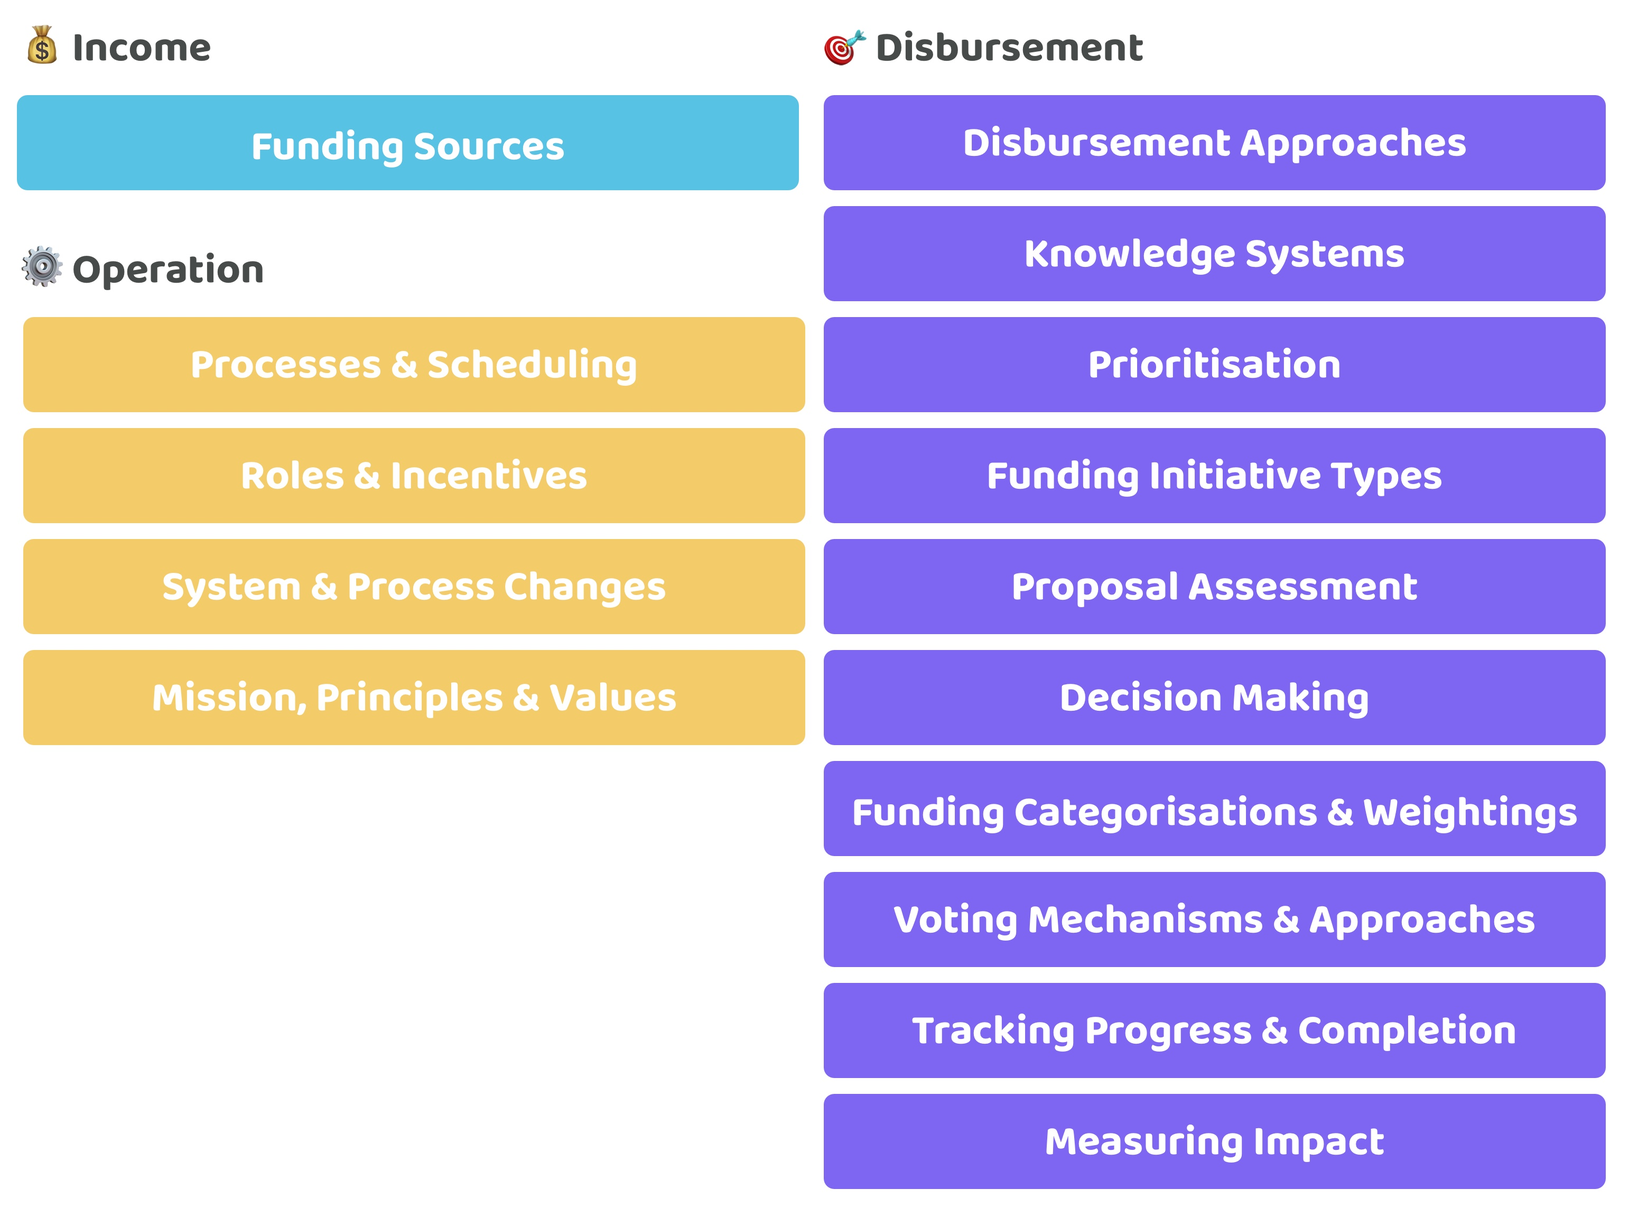
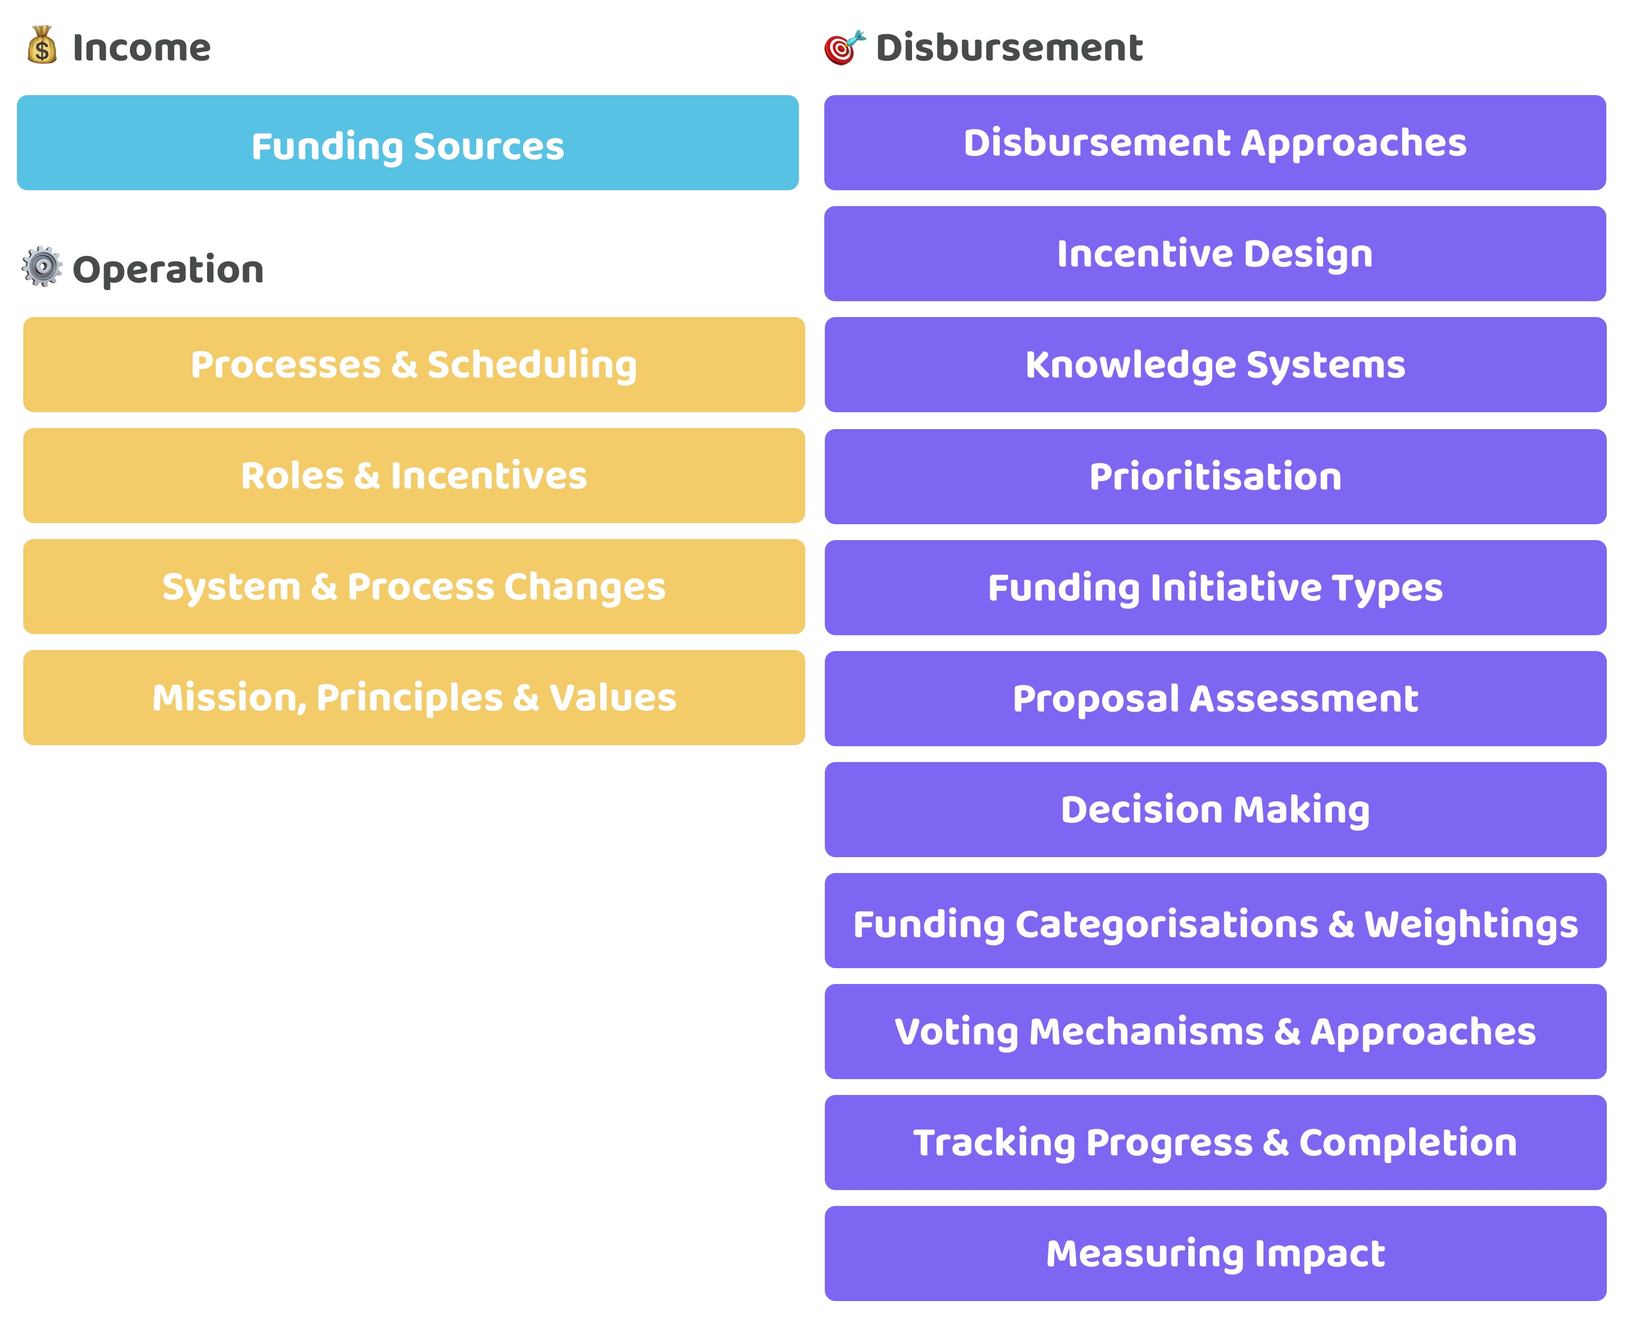
GITBOOK-99: change request with no subject merged in GitBook

Changed region(s): [[0.0, 0.0, 0.991, 0.9931]]

diff --git a/roadmap/current-roadmap-plan.md b/roadmap/current-roadmap-plan.md
@@ -1,0 +1,95 @@
+---
+description: >-
+  Our current roadmap with the planned contribution efforts for the coming
+  months
+---
+
+# ✍ Current roadmap plan
+
+<figure><img src="../.gitbook/assets/disbursement-approaches-incentive-design-roadmap.png" alt=""><figcaption></figcaption></figure>
+
+The Web 3 Association has already started looking at how different ecosystems could approach disbursement by identifying different disbursement approaches and incentive design mechanisms that could be adopted and what the different factors and potential trade offs are for these approaches.
+
+We’re looking to expand and iterate on this existing work and dive deeper into these topic areas to improve the available disbursement resources. These resources can then become more useful and insightful to existing Web 3 ecosystems across the industry and help with providing suggestions on what approaches could be worth further exploration and experimentation.
+
+Directly after finishing this analysis we will be introducing community based incentives to help bring together contributors from across the industry from different ecosystems to discuss and suggest more approaches that might be missing or to help with making any refinements and improvements to any of the existing resources.
+
+The outcomes from both these initiatives will help with identifying some of the most promising disbursement and incentive design approaches that ecosystems across the industry could experiment with or adopt in their own treasury disbursement processes.
+
+
+
+<figure><img src="../.gitbook/assets/knowledge-resources.png" alt=""><figcaption></figcaption></figure>
+
+A set of resources have already been created around different disbursement and incentive design approaches that teams building treasuries can consider. We’re looking to further explore and deep dive into this area to perfect these resources and expand on this work.
+
+
+
+**Existing resources**
+
+* [docs.treasuries.co](https://www.notion.so/Disbursement-Approaches-Incentive-Design-bd8adbd2e3af4bf5ad0056278f1a0575?pvs=21)
+* [disbursement.treasuries.co](https://www.notion.so/Disbursement-Approaches-Incentive-Design-bd8adbd2e3af4bf5ad0056278f1a0575?pvs=21)
+* [suggestions.treasuries.co](https://www.notion.so/Disbursement-Approaches-Incentive-Design-bd8adbd2e3af4bf5ad0056278f1a0575?pvs=21)
+
+
+
+**Areas of focus**
+
+* Disbursement approaches analysis - Further work can be done to improve the disbursement approaches analysis by going into more detail about the implications around how disbursement processes can be structured. Example areas that warrant deeper analysis include:
+  * Contributor flexibility - Initial participation complexity, contribution arrangement flexibility and ability to change future contribution efforts.
+  * Voting participation & decision complexity - Amount and complexity of information involved, voting comparison complexity, total time required to vote.
+* Types of ideas analysis - To better understand and explore how ideas are incentivised and executed through a disbursement process we can look at more example of types of ideas that can exist, both large and small, and look at how they could emerge such as through existing work efforts or feedback.
+* Idea based funding analysis - Idea focussed funding is currently the most prominent grants based funding approach used across many Web 3 ecosystems. By applying some of the previous analysis we can better explore the key opportunities and issues that exist around idea based funding against other options.
+* Open source development analysis - Open source development is a vital part of Web 3 ecosystems that are looking to make global and openly available protocols that can be adopted across many different use cases. Analysis can help to identify which disbursement approaches and incentive models could be most effective for funding open source development.
+* Incentive attachment analysis - Looking at the implications and differences that occur when the incentive is attached to different areas within web 3 ecosystems and how that could impact the behaviours and outcomes of the ecosystem. For instance how do the incentives impact an ecosystem when they are attached to the infrastructure, protocol or application layers? How do these differences align or misalign the incentives? What conflicts could occur?
+* Suggestions - New suggestions as well as refinements to existing ones will help with exploring what the most promising disbursement approaches could be as well as what incentive design appears to be the most promising for further exploration that could help with generating more impactful results when doing treasury disbursement.
+
+These pieces of analysis and any suggestions will be shared across different communities to receive feedback where community incentives will also be used to help with promoting suggested improvements to the resources created. Turning some of these resources into video content will also be another way we can help with articulating the different factors involved in the different disbursement approaches or incentive mechanisms.
+
+
+
+**Relevance & potential impact for the industry**
+
+The disbursement approaches and incentive mechanisms that any ecosystem adopts have a profound impact on the effectiveness, efficiency and scalability of their disbursement processes. Ecosystem teams working on the treasury systems and processes can cost hundreds of thousands or millions in development and maintenance costs to manage and improve these systems. By doing a deep dive into how these disbursement processes can be structured and incentivised we can help the industry in spotting opportunities to improve and experiment with how disbursement is handled to create increasingly impactful outcomes. Experimentation around the most promising approaches will be a vital part of identifying which disbursement approaches yield consistently impactful results over the long term.
+
+
+
+<figure><img src="../.gitbook/assets/community-incentives.png" alt=""><figcaption></figcaption></figure>
+
+After new and improved resources are created about different disbursement approaches and suitable incentive design mechanisms we will then look at introducing and promoting community incentives to help encourage people from across the industry to provide their expertise and feedback. These initiatives will help with identifying areas of improvement as well as completely new suggestions to the existing resources. This feedback will will help to improve the overall quality of the resources. As part of these initiatives we will spend time exploring what existing ecosystems are looking to accomplish with their own approaches and then help with providing our own thoughts and feedback as well as incentivising the community to share their own viewpoints to those ecosystems.
+
+
+
+**Areas of focus**
+
+* Exploration of new ideas and approaches - The resources should help with identifying the breadth of different approaches that could be adopted. An important part of achieving this will be incentivising community members to further explore and identify any areas that haven’t already been covered or thought about.
+* Analysis improvements - The existing resources will nearly always have potential areas of improvement that can make them more useful, concise or insightful. Community members will be compensated for providing feedback that leads to these improvements.
+* Research improvements - Research by community members could potentially reveal important trends or insights that are currently not covered and lacking in the existing resources. The community incentives can compensate the identification of research that is relevant and insightful to the wider industry that can then be added to the resources for reference.
+* Community feedback - Capturing the communities current sentiments and thoughts about any of the suggestions or analysis made in any of the resources will help with determining what disbursement approaches or incentive design mechanisms the community is currently most interested in exploring or using across different ecosystems. This could provide useful information for ecosystems to consider when making their own decisions on where to spend more effort in improving their own treasury systems and processes.
+* Ecosystems intentions & feedback - As the resources mature and become more well rounded it will be useful to capture the intentions and thoughts of the teams who are building the treasury systems and processes in each ecosystem. This information will make it clearer what hypothesis each ecosystem currently has in what disbursement approaches and incentive design mechanisms could be the most effective and then allow for the communities in those ecosystems to provide their thoughts and feedback and participate in those discussions.
+
+Each of these areas of focus will need to be handled with a best efforts approach due to the fact there will be no guarantee that community members come forward to contribute to any of these areas. We will need to react and respond to what actually happens rather than assume the outreach and incentives we initiate will generate the expected participation and desired result. Community incentives may be updated so they become more effective at generating the right outcomes however at no point will the community incentives be redirected to any core W3A contributors.
+
+
+
+**Relevance & potential impact for the industry**
+
+Each ecosystem in the industry is already spending resources on improving and maintaining their own treasury systems and processes to disburse treasury assets. By incentivising the wider industry to participate in discussions and contribution efforts towards improving treasury systems there is an opportunity to share the cost of identifying effective and scalable solutions that can help solve important treasury problems. Our intentions with the community incentives is to create a growing collaborative force across the industry that can more effectively and efficiently improve treasury systems. This could help the entire industry improve and grow at a faster rate than it is currently. The more the industry can collaborate the faster that shared learnings can be achieved which can help with speeding up the improvement and ongoing evolution of different treasury systems and processes.
+
+
+
+<figure><img src="../.gitbook/assets/future-contribution-efforts.png" alt=""><figcaption></figcaption></figure>
+
+After creating further resources, making improvements and bringing together community feedback our next task will be deciding where to allocate our contribution efforts moving forward. The feedback and response to the work mentioned above will help to guide us in determining where we believe we can create the most impact for the industry. We will also ask ecosystems to provide their feedback on where they believe our efforts could be best allocated.
+
+
+
+**Example future areas of focus**
+
+* Impact measurement - An important area of potential improvement in the industry is how impact is measured from completed initiatives. Improvements in measuring impact can be an effective way for better identifying which disbursement approaches are performing more effectively and how incentives can be better aligned with generating more impactful outcomes in the future.
+* Gather industry data - If many ecosystems are experimenting with different disbursement approaches and incentive mechanisms there may be merit in documenting the data that emerges from these processes and helping to make that more digestible and comparable. This data could make it easier to identify what is working well and what opportunities exist for improvement.
+* Prioritisation systems - One area we have already as an important part of treasury disbursement is how communities prioritise certain initiatives over others. Our efforts in the future could be directed towards initial technical architecture and design efforts to explore how prioritisation systems could be developed to help communities in different ecosystems most effectively express what opportunities or problems they believe are most important for the ecosystem at that moment.
+* Knowledge systems - We’ve already started to cover how knowledge is a vital part of treasury disbursement and that it impacts every other part of the process in prioritising impactful initiatives, identifying the most promising ideas and selecting suitable contributors to execute those ideas. Thinking about and designing potential knowledge systems that makes this easier for ecosystems to gather, digest and apply data could be an impactful area of work we could explore.
+
+
+
+The above are just example more likely potential areas of focus, there are numerous other areas that could be relevant and that we might pursue in the future. We'll discover more about how we can generate the most impact for as many ecosystems as possible as we continue to execute and collaborate with different ecosystems.

diff --git a/roadmap/other-areas-of-focus.md b/roadmap/other-areas-of-focus.md
@@ -1,16 +1,14 @@
 ---
 description: >-
-  An initial roadmap of different areas of contribution that can help support
-  and improve treasury systems
+  List of the different potential areas of focus that could help with supporting
+  and improving treasury systems
 ---
 
-# 🗺 Roadmap
-
-## Potential areas of **focus**
+# 📗 Other areas of focus
 
 The following are some example areas of focus that can be researched and analysed to discover areas of improvement across the different existing solutions in web 3 ecosystems. This list is not exhaustive and will be updated over time to include more areas for consideration and further contribution.
 
-<figure><img src=".gitbook/assets/treasury-focus-areas.jpg" alt=""><figcaption></figcaption></figure>
+<figure><img src="../.gitbook/assets/treasury-focus-areas.jpg" alt=""><figcaption></figcaption></figure>
 
 
 
@@ -38,6 +36,7 @@ Finding out how a treasury can be operated effectively so that an ecosystem can 
 Exploring how an ecosystem can create systems and processes that disburse treasury assets to help with generating impactful outcomes for the ecosystem.
 
 * **Disbursement Approaches** - There are numerous ways in which funding could be disbursed to impactful initiatives. Comparing the tradeoffs between different approaches can help with identifying where the most promising areas are for further experimentation.
+* **Incentive Design** - What incentives are created and how they are attached to the disbursement process will have a profound impact on the behaviours and outcomes that get generated by the systems and processes that are used for disbursement.
 * **Knowledge Systems** - There is a vast amount of information that is relevant to making well informed decisions. Understanding what information could be useful to the disbursement process will help with making voters more well informed. The easier and quicker it is for voters to get access to quality information the easier it will be to scale a governance process that is looking to increase community participation.
 * **Prioritisation** - Communities should be able to prioritise where they believe more effort and contribution should be directed towards. This influences how funding could be disbursed and what funding processes a community uses to help with addressing the most important priorities. Community priority setting can help with finding out what consensus exists around which problems and opportunities are the most important for the ecosystem. Prioritisation can also require sufficient debate and discussion around the different problems and opportunities that exist to help with making more well informed prioritisation decisions.
 * **Funding Initiative Types** - Exploring what types of funding initiatives can exist, what they are useful for and what forms of information is required or beneficial for voting. Example proposal types could include ideas, tasks and contributors.
@@ -48,18 +47,3 @@ Exploring how an ecosystem can create systems and processes that disburse treasu
 * **Funding Distribution Mechanisms** - Funding could be distributed to selected proposals in a number of ways such as through milestones, time based segmentation, all at once or upon completion of the proposals intent. Different funding initiatives may be more suited to different release mechanisms and cadences for distributing funding based on the risks and complexities of the funding initiative type.
 * **Tracking Progress & Completion** - A community can benefit from being able to measure and verify the progress and completion of any of the funded proposal. Distribution mechanisms used to distribute funding to contributors can also potentially include automated or community based review processes as part of the disbursement process to sign off milestones and completions. Improving this process can help with reducing the loss of treasury funding to time wasters, scams or underperforming proposals. It could also help with identifying the more effective contributors from looking at the execution of their own proposal.
 * **Measuring Impact** - The community benefits from reviewing completed proposals to reflect on how impactful any generated outcomes were compared against the total amount of allocated resources it took to achieve those outcomes. Understanding the impact generated by each completed initiative will help with improving future funding disbursement decisions if voters are increasingly able to select initiatives that are more likely to create high impact.
-
-
-
-## Initial contribution plan
-
-The initial contribution plan will be to focus on the area of treasury disbursement which will revolve around looking at different disbursement approaches. These efforts could then likely be followed by looking at either knowledge systems, prioritisation or funding initiative types depending on which of these areas would be the most impactful to work on.
-
-* **Disbursement Approaches** - Identify the ways in which funding could be disbursed and how the funding process could be structured in different ways to help with generating different outcomes.
-* **Knowledge Systems** - Look into what information systems would be beneficial to different ecosystems to make more informed disbursement decisions and identify where any gaps exist.
-* **Prioritisation** - Understand how ecosystems are approaching prioritisation and identify areas of improvement or make suggestions for a simple process to start out with.
-* **Funding initiative types** - Understand the different types of funding process that can exist with their merits and tradeoffs. Once enough knowledge is established around different solution approaches then effort can be directed towards looking at what data structures could help with recording the required and useful information needed for each of those initiative types.
-
-Each of these areas is closely focussed on how funding can be disbursed and the different ways that can be achieved. The plan is to start at a high level comparing how these systems can be approached and then to dive deeper on the areas that could help the most ecosystems in improving their own treasury disbursement processes.
-
-This initial plan of execution above is not set in stone and is a recommended starting point. When collaborating with any web 3 projects interested in this work we will reflect and consider on how the most impact could be provided through our contributions. If another area proves to be more impactful to work on in the short term then this can be considered on when to prioritise that work.

diff --git a/SUMMARY.md b/SUMMARY.md
@@ -9,7 +9,9 @@
     * [📄 Standards overview](approach/contribution-outcomes/standards-overview.md)
   * [🏃♂ Contribution process](approach/contribution-process/README.md)
     * [🪴 Creating the right environment](approach/contribution-process/creating-the-right-environment.md)
-* [🗺 Roadmap](roadmap.md)
+* [🗺 Roadmap](roadmap/README.md)
+  * [✍ Current roadmap plan](roadmap/current-roadmap-plan.md)
+  * [📗 Other areas of focus](roadmap/other-areas-of-focus.md)
 * [👨👩👧👦 Contributors](contributors/README.md)
   * [🧑 George Lovegrove](contributors/george-lovegrove/README.md)
     * [Contribution log](contributors/george-lovegrove/contribution-log/README.md)

diff --git a/README.md b/README.md
@@ -26,7 +26,7 @@ Our core contribution outcome will be the creation of knowledge resources about 
 
 
 
-🗺 [**Roadmap**](roadmap.md)
+🗺 [**Roadmap**](roadmap/)
 
 The initial focus is around foundational areas of the funding process such as how funding gets directed to different funding initiatives. This initial focus includes looking at what funding initiative types and proposal structures can exist, how proposals can be effectively assessed, how funding initiatives can be tracked and measured and then also how the impact of those funding initiatives can be reviewed.
 

diff --git a/roadmap/README.md b/roadmap/README.md
@@ -1,0 +1,15 @@
+---
+description: >-
+  Our current roadmap plan with what we're working on and a list of other areas
+  of focus that we might prioritise in the future
+---
+
+# 🗺 Roadmap
+
+{% content-ref url="current-roadmap-plan.md" %}
+[current-roadmap-plan.md](current-roadmap-plan.md)
+{% endcontent-ref %}
+
+{% content-ref url="other-areas-of-focus.md" %}
+[other-areas-of-focus.md](other-areas-of-focus.md)
+{% endcontent-ref %}
